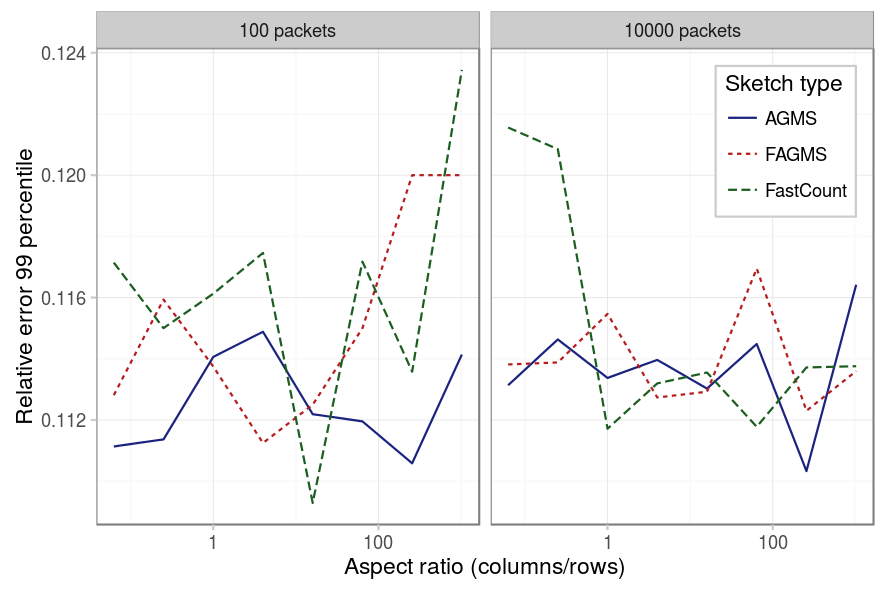
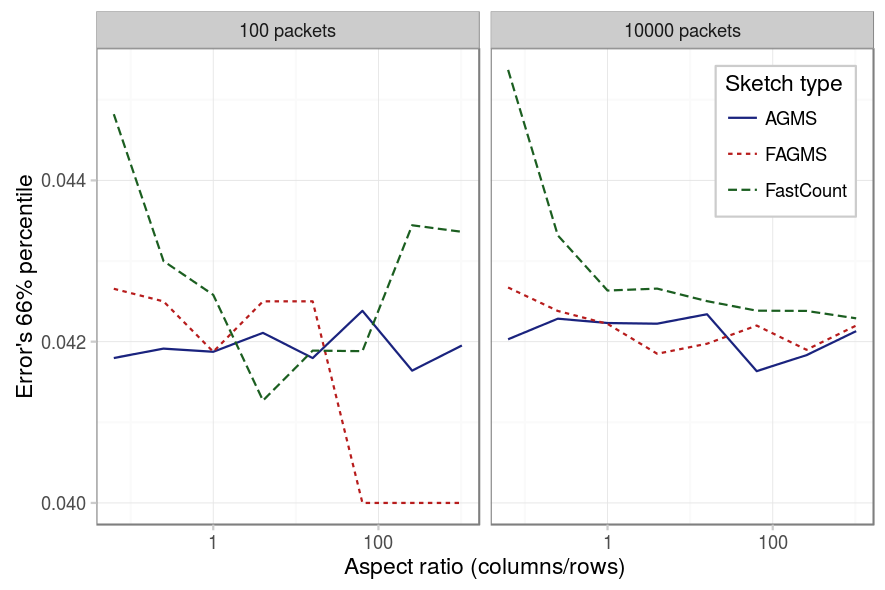
Finished and fixed estimating-total figures

diff --git a/reports/estimating-total/rows.md b/reports/estimating-total/rows.md
@@ -81,9 +81,18 @@ Next, we study how the number of rows affects in the error deviation. As we can 
 
 ### Aspect ratio
 
-Finally, we study if there is a proportion of rows-packets that provides better results. As we can see in the figure below, for the AGMS sketch, there is no difference, because we are using the mean, and so the role of rows and columns is the same. For the Fast-AGMS, more rows provide a better result when the number of packets is low, as the effect of the +-1 pseudo-random function requires many packets to converge to the optimal solution, but as the number of packets is considerable, it does not matter anymore. Finally, for the FastCount sketch, for few packets, a square sketch is preferable and for many packets, we should have at least as many columns as rows. 
+Finally, we study if there is a proportion of rows-packets that provides better results. The first three figures below show each for a different percentile, its error for different aspect ratios. We can observe on the different figures the following:
+
+* For the AGMS sketch, as expected, there is no difference between rows and columns.
+* For the Fast-AGMS sketch, when there are little packets, a high number of columns implies that the results are not stable, this can be better understoond by checking the fourth figure, which shows the PMF of for some aspect ratios: when the number of columns is high, the results are more grouped around certain values, causing the difference between different percentiles to be really sensible to where such percentile falls (is it just to the right or the left of one of the error values?).
+* For the FastCount sketch we can see the same for the case of low packets and high number of columns. But additinally, we see that if the number of columns is low, the results tend to be worse in any case.
 
 ![](figures/aspect1.png)
+![](figures/aspect2.png)
+![](figures/aspect3.png)
+![](figures/aspect4.png)
+![](figures/aspect5.png)
+
 
 |          Parameter |             Value             |
 |-------------------:|:-----------------------------:|
@@ -96,6 +105,8 @@ Finally, we study if there is a proportion of rows-packets that provides better 
 |             _Pcap_ |         CAIDA-no dups         |
 | _Average function_ |              mean             |
 
+The results were later analyzed using a [Pearson's Chi-square test for equality of percentiles](http://www.ncbi.nlm.nih.gov/pmc/articles/PMC4535814/) and as expected, the FastCount is affected by the aspect ratio in any case; the AGMS in no case and the Fast-AGMS only when the number of packets is low.
+
 ### Conclusion
 
-We have seen that increasing the number of rows decreases the standard error and that using the mean is the best way of combining the results between different rows. Regarding the aspect ratio of the sketch, a reasonable choice that works for every sketch on every situation is to choose a square sketch, where the number of rows is more or less the same as the number of columns.
+We have seen that increasing the number of rows decreases the standard error and that using the mean is the best way of combining the results between different rows. Regarding the aspect ratio of the sketch, one must be careful specially for the FastCount sketch, for which a reasonable choice is choosing a square sketch. For the Fast-AGMS, when the number of packets is low, choosing a higher number of rows will smooth its PMF, easing the prediction of the percentile.

diff --git a/reports/estimating-ratio/time.md b/reports/estimating-ratio/time.md
@@ -7,7 +7,7 @@ next: ../../reports
 title: Time interval
 ---
 
-Finally, because in many situations the monitors will not be able to coordinate based on the number of packets, we study the effect of choosing different durations for the monitoring period. The figure below shows the 99 percentile for three different pcaps and different interval durations. 
+Finally, because in many situations the monitors will not be able to coordinate based on the number of packets, we study the effect of choosing different durations for the monitoring period. The figure below shows the 99 percentile for three different pcaps and different interval durations, for a network area with drop probability 0.1 and sketches of 32 by 32. As we can see, longer intervals lead to smaller error. This is due to the fact, that because the drop probability is not deterministic, if there are not enough packets, the drop probability will not be exactly 10%, but in some cases 20% in others 0%. In such cases, because higher drop probability implies higher error, the error for smaller intervals is higher.
 
 |          Parameter |      Value      |
 |-------------------:|:---------------:|
@@ -20,5 +20,39 @@ Finally, because in many situations the monitors will not be able to coordinate 
 |             _Pcap_ |      CAIDA      |
 | _Average function_ |       mean      |
 
-
 ![](figures/interval1.png)
+
+If we compare the results with a sketch of size 16 by 16, we can see that the results are strikingly similar, the only difference is the error scale: now the error is approximately twice the error than before.
+
+|          Parameter |      Value      |
+|-------------------:|:---------------:|
+| _Drop probability_ |       10%       |
+|          _Columns_ |        16       |
+|             _Rows_ |        16       |
+|      _Digest size_ |        32       |
+|    _Hash function_ |     default     |
+|      _Xi function_ |     default     |
+|             _Pcap_ |      CAIDA      |
+| _Average function_ |       mean      |
+
+![](figures/interval2.png)
+
+Finally, we compare the results when the drop probability is 0.01. As we can see in the figure below, it takes now slightly longer to estabilize, but the tendencies are the same.
+
+|          Parameter |      Value      |
+|-------------------:|:---------------:|
+| _Drop probability_ |        1%       |
+|          _Columns_ |        16       |
+|             _Rows_ |        16       |
+|      _Digest size_ |        32       |
+|    _Hash function_ |     default     |
+|      _Xi function_ |     default     |
+|             _Pcap_ |      CAIDA      |
+| _Average function_ |       mean      |
+
+![](figures/interval3.png)
+
+## Conclusions
+
+Using small time intervals may lead to higher error, because the drop probability cannot be properly estimated when the number of packets is small. The standard error can be reduced, therefore by either using longer intervals, or averaging the results from several periods.
+

diff --git a/reports/estimating-total/columns.md b/reports/estimating-total/columns.md
@@ -83,7 +83,7 @@ But when we run the experiment with 32 rows instead, we found a surprising resul
 |    _Hash function_ |            default            |
 |      _Xi function_ |            default            |
 |             _Pcap_ |             CAIDA             |
-| _Average function_.|            median.............|
+| _Average function_.|            median             |
 
 We saw that there was a higher error than expected. After investigating a little bit, we discovered that there were some repeated packets on the pcap at some interval, (11 of them), causing it to over estimate the prediction by around 120 (11^2=121) in one of the 100 intervals:
 
